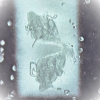
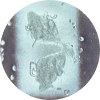
Fixed css

diff --git a/index.html b/index.html
@@ -12,6 +12,10 @@
     <link rel="stylesheet" href="https://cdn.jsdelivr.net/npm/bootstrap-icons@1.13.1/font/bootstrap-icons.min.css">
     <link rel="stylesheet" href="styles.css">
     <link rel="stylesheet" href="https://fonts.googleapis.com/css?family=Trirong">
+    <link href="https://fonts.googleapis.com/css2?family=Instrument+Serif:ital@0;1&display=swap" rel="stylesheet">
+    <link rel="icon" type="image/x-icon" href="img/ovary.png">
+    <link href="https://fonts.googleapis.com/css2?family=Red+Hat+Mono:ital,wght@0,300..700;1,300..700&display=swap"
+        rel="stylesheet">
 
 
     <!--JavaScript Links-->
@@ -39,7 +43,7 @@
                     <div class="collapse navbar-collapse" id="navmenu"> <!--Links to hamburger menu-->
                         <ul class="navbar-nav ms-auto"> <!--ms-auto provides automatic margin spacing-->
                             <li class="nav-itm">
-                                <a href="authors.html" class="nav-link hover-underline-animation">Authors</a>
+                                <a href="authors.html" class="nav-link hover-underline-animation new">Authors</a>
                             </li>
                             <li class="nav-itm">
                                 <a href="procedure.html" class="nav-link hover-underline-animation">Procedure</a>
@@ -64,7 +68,9 @@
                     </div>
                     <div class="col-sm-6 p-0 d-flex align-items-center">
                         <div class="container">
-                            <h1 class="display-4">The Effects of Polyethylene Terephthalate and Polyvinyl Chloride Consumption on the Fecundity of <em>Drosophila Melanogaster</em> with PCOS Symptom Exhibition</h1>
+                            <h1 class="display-4">The Effects of Polyethylene Terephthalate and Polyvinyl Chloride
+                                Consumption on the Fecundity of <em>Drosophila Melanogaster</em> with PCOS Symptom
+                                Exhibition</h1>
                             <!--display-4 will make the <h1> tag stand out-->
                             <h2>Building a Site with Bootstrap Demo</h2>
                         </div>
@@ -82,11 +88,12 @@
                     <div class="col-sm-8 p-3">
                         <h1 class="overview-left-padding">Background</h1>
                         <!--overview-left-padding - custom padding left side-->
-                        <p class="lead overview-font overview-left-padding">
-                            Lorem ipsum dolor sit amet consectetur adipiscing elit id minim id deserunt laboris
-                            omnis est minim minim officia adipiscing est voluptas deserunt labore culpa distinctio
-                            dolore excepteur imperdiet est est voluptatum proident officia dolor quibusdam veniam
-                            occaecat quo distinctio sunt quidem rerum nostrud in sint fuga cum fugiat sunt ipsum.
+                        <p class="lead overview-font overview-left-padding new-font">
+                            Phthalates are plasticizers and endocrine-disrupting chemicals characterized by
+                            interference with metabolic pathways and hormonal dysfunction. Polyvinyl chloride (PVC) is one of the most widespread
+                            phthalate-containing plastics. Polyethylene terephthalate (PET) does not contain plasticizers but shows negative effects within male reproductive health. Few studies have been conducted regarding their effects patients with polycystic-ovarian syndrome (PCOS): a disorder
+                            affecting 6-15% of reproductive-aged females. Studying effects within a model
+                            organism—<em>Drosophila melanogaster</em>, possessing similar reproductive structures to humans—would offer further insight into potential effects of PET and PVC on PCOS.
                         </p>
                     </div>
                 </div>
@@ -100,6 +107,8 @@
                             omnis est minim minim officia adipiscing est voluptas deserunt labore culpa distinctio
                             dolore excepteur imperdiet est est voluptatum proident officia dolor quibusdam veniam
                             occaecat quo distinctio sunt quidem rerum nostrud in sint fuga cum fugiat sunt ipsum.
+
+                            
                         </p>
                     </div>
                     <div class="col-sm-4 p-3">
@@ -128,7 +137,7 @@
         <!--Footer-->
         <footer class="p-5 footer text-light text-center position-relative">
             <div class="container">
-                <p class="lead">Copyright &copy; Research Practicum and Software Engineering, 2026</p>
+                <p class="lead credits">Copyright &copy; Research Practicum and Software Engineering, 2026</p>
                 <a href="#" class="position-absolute bottom-0 end-0 p-5">
                     <i class="bi bi-arrow-up-circle h2 icon-white"></i>
                 </a>

diff --git a/authors.html b/authors.html
@@ -12,7 +12,10 @@
     <link rel="stylesheet" href="https://cdn.jsdelivr.net/npm/bootstrap-icons@1.13.1/font/bootstrap-icons.min.css">
     <link rel="stylesheet" href="styles.css">
     <link rel="stylesheet" href="https://fonts.googleapis.com/css?family=Trirong">
+    <link href="https://fonts.googleapis.com/css2?family=Instrument+Serif:ital@0;1&display=swap" rel="stylesheet">
+    <link href="https://fonts.googleapis.com/css2?family=Red+Hat+Mono:ital,wght@0,300..700;1,300..700&display=swap" rel="stylesheet">
 
+    <link rel="icon" type="image/x-icon" href="img/ovary.png">
 
     <!--JavaScript Links-->
     <script src="https://cdn.jsdelivr.net/npm/bootstrap@5.3.8/dist/js/bootstrap.bundle.min.js"
@@ -68,7 +71,7 @@
                             <div class="card-body">
                                 <h4 class="card-title">Student Name</h4>
                                 <h5>Class: BME</h5>
-                                <p class="card-text">Describe (in detail) the contributions that were made to the
+                                <p class="card-text ">Describe (in detail) the contributions that were made to the
                                     project.</p>
                             </div>
                         </div>
@@ -114,7 +117,7 @@
         <!--Footer-->
         <footer class="p-5 footer text-light text-center position-relative">
             <div class="container">
-                <p class="lead">Copyright &copy; Research Practicum and Software Engineering, 2026</p>
+                <p class="lead credits">Copyright &copy; Research Practicum and Software Engineering, 2026</p>
                 <a href="#" class="position-absolute bottom-0 end-0 p-5">
                     <i class="bi bi-arrow-up-circle h2 icon-white"></i>
                 </a>

diff --git a/procedure.html b/procedure.html
@@ -12,7 +12,8 @@
     <link rel="stylesheet" href="https://cdn.jsdelivr.net/npm/bootstrap-icons@1.13.1/font/bootstrap-icons.min.css">
     <link rel="stylesheet" href="styles.css">
     <link rel="stylesheet" href="https://fonts.googleapis.com/css?family=Trirong">
-
+    <link href="https://fonts.googleapis.com/css2?family=Instrument+Serif:ital@0;1&display=swap" rel="stylesheet">
+    <link rel="icon" type="image/x-icon" href="img/ovary.png">
 
     <!--JavaScript Links-->
     <script src="https://cdn.jsdelivr.net/npm/bootstrap@5.3.8/dist/js/bootstrap.bundle.min.js"
@@ -59,7 +60,7 @@
                 <br>
                 <div class="text-center">
                     <h1>Procedure</h1>
-                    <h2>Using a numbered list, describe your procedure (including pictures)</h2>
+                    <h2 class="minimize"></h2>
                 </div>
                 <hr><br>
 
@@ -143,7 +144,7 @@
         <!--Footer-->
         <footer class="p-5 footer text-light text-center position-relative">
             <div class="container">
-                <p class="lead">Copyright &copy; Research Practicum and Software Engineering, 2026</p>
+                <p class="lead credits">Copyright &copy; Research Practicum and Software Engineering, 2026</p>
                 <a href="#" class="position-absolute bottom-0 end-0 p-5">
                     <i class="bi bi-arrow-up-circle h2 icon-white"></i>
                 </a>

diff --git a/styles.css b/styles.css
@@ -6,7 +6,7 @@
 }
 
 .about-team{
-    color:rgb(82, 81, 81)
+    color:rgb(30, 0, 0)
 }
 
 .authors{
@@ -14,11 +14,15 @@
 }
 
 .body{
-    background-color: rgb(90, 92, 92);
+    background-color: rgb(148, 122, 126);
 }
 
 .chartjs-sample{
     background-color: #b08794;
+}
+
+.container {
+    font-family: "Red Hat Mono", monospace;
 }
 
 .footer{                
@@ -27,6 +31,11 @@
 
 .icon-white{            /* Arrow icon at bottom of page */
     color: #FFFFFF;
+}
+
+.credits {
+    font-family: "Instrument Serif", "Trirong", Cambria, Cochin, Georgia;
+    font-size: 30px;
 }
 
 .nav-background-color{   /* navbar background color */
@@ -39,6 +48,10 @@
     margin-right: 10px;
 }
 
+.new-font{
+    font-family: "Red Hat Mono", monospace;
+    font-weight: 200;
+}
 .overview{
     background-color: #d3bbbc;
 }
@@ -75,6 +88,14 @@ p {
     font-family:'Courier New', Courier, monospace;
 }
 
+.minimize {
+    font-size: 20px;
+}
+
+.nav-itm {
+    font-family: "Instrument Serif", "Trirong", Cambria, Cochin, Georgia;
+    font-size: 30px;
+}
 
 /* ----------------- ID CSS ----------------- */
 
